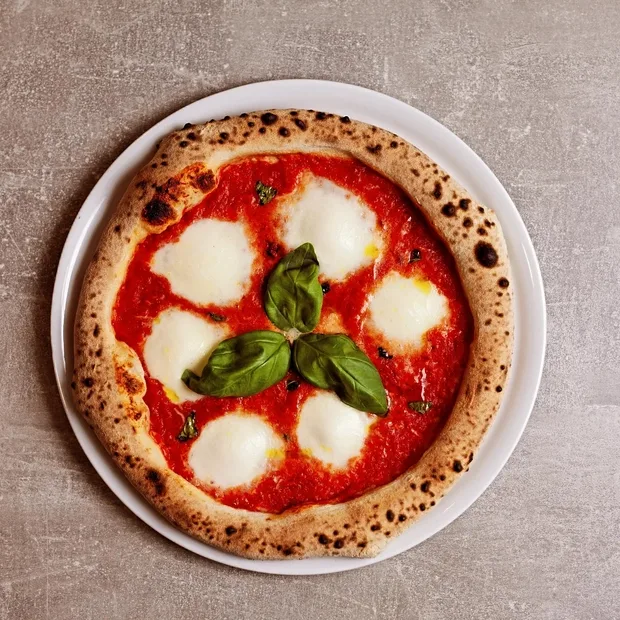
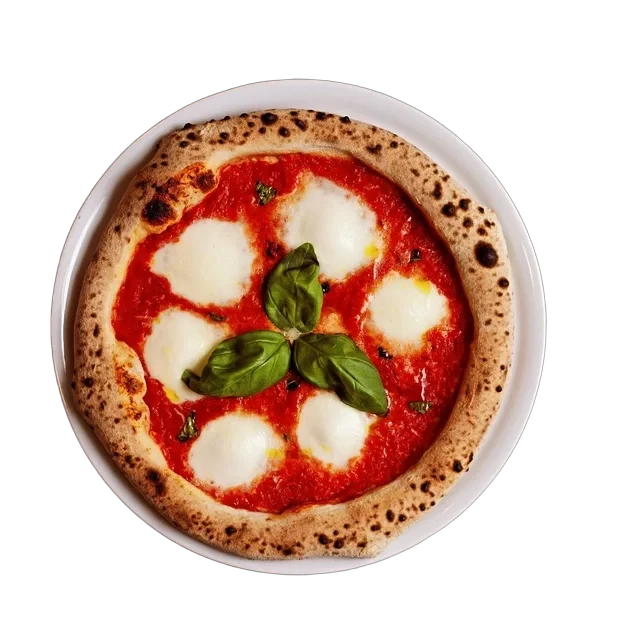
Add outline Objednat buttons and cutout menu food photos
Order buttons start as green outline and fill after click.
Menu item images use transparent backgrounds with object-contain.

diff --git a/src/app/menu/page.tsx b/src/app/menu/page.tsx
@@ -4,6 +4,7 @@ import { getContent } from "@/lib/content";
 import { SiteHeader } from "@/components/site-header";
 import { SiteFooter } from "@/components/site-footer";
 import { Button } from "@/components/ui/button";
+import { OrderButton } from "@/components/order-button";
 import { PageJsonLd } from "@/components/json-ld";
 import { Reveal } from "@/components/reveal";
 import { getPageSchema } from "@/lib/schema";
@@ -58,12 +59,12 @@ export default async function MenuPage() {
                       className="menu-row grid gap-4 py-8 sm:grid-cols-[auto_1fr_auto] sm:items-center"
                     >
                       {item.image ? (
-                        <div className="img-zoom relative h-20 w-20 overflow-hidden rounded-[6.4px] sm:h-24 sm:w-24">
+                        <div className="relative h-20 w-20 sm:h-24 sm:w-24">
                           <Image
                             src={item.image}
                             alt={item.name}
                             fill
-                            className="img-zoom-media object-cover"
+                            className="object-contain"
                             sizes="96px"
                           />
                         </div>
@@ -82,15 +83,7 @@ export default async function MenuPage() {
                         <p className="text-3xl font-black leading-none text-[var(--brand-red)] md:text-4xl">
                           {item.price}
                         </p>
-                        <Button asChild className="btn-green">
-                          <a
-                            href={site.orderUrl}
-                            target="_blank"
-                            rel="noreferrer"
-                          >
-                            Objednat
-                          </a>
-                        </Button>
+                        <OrderButton href={site.orderUrl} />
                       </div>
                     </li>
                   ))}

diff --git a/src/app/globals.css b/src/app/globals.css
@@ -383,6 +383,7 @@
   .img-zoom .img-zoom-media,
   .btn-brand,
   .btn-green,
+  .btn-order,
   .btn-outline-light,
   .feature-chip,
   .band-link,
@@ -576,6 +577,41 @@
 .btn-green:hover {
   background: #007a3a;
   color: #fff;
+}
+
+.btn-order {
+  display: inline-flex !important;
+  align-items: center !important;
+  justify-content: center !important;
+  box-sizing: border-box !important;
+  min-height: 3.9rem !important;
+  min-width: 12.5rem !important;
+  padding: 1.5rem 2.2rem !important;
+  font-family: var(--font-display) !important;
+  font-size: 1.3rem !important;
+  font-weight: 800 !important;
+  line-height: 1.2 !important;
+  letter-spacing: 0 !important;
+  text-transform: uppercase !important;
+  border-radius: var(--button-radius) !important;
+  white-space: nowrap !important;
+  border: 2px solid var(--brand-green) !important;
+  background: transparent !important;
+  color: var(--brand-green) !important;
+  transition:
+    background-color 0.25s ease,
+    color 0.25s ease,
+    transform 0.25s ease !important;
+}
+
+.btn-order:hover {
+  transform: translateY(-2px);
+}
+
+.btn-order.is-ordered {
+  background: var(--brand-green) !important;
+  color: #fff !important;
+  border-color: var(--brand-green) !important;
 }
 
 .btn-outline-light {

diff --git a/src/app/denni-nabidka/page.tsx b/src/app/denni-nabidka/page.tsx
@@ -4,6 +4,7 @@ import { getContent } from "@/lib/content";
 import { SiteHeader } from "@/components/site-header";
 import { SiteFooter } from "@/components/site-footer";
 import { Button } from "@/components/ui/button";
+import { OrderButton } from "@/components/order-button";
 import { PageJsonLd } from "@/components/json-ld";
 import { Reveal } from "@/components/reveal";
 import { getPageSchema } from "@/lib/schema";
@@ -60,11 +61,7 @@ export default async function DailyMenuPage() {
                     <p className="text-3xl font-black leading-none text-[var(--brand-red)] md:text-4xl">
                       {item.price}
                     </p>
-                    <Button asChild className="btn-green">
-                      <a href={site.orderUrl} target="_blank" rel="noreferrer">
-                        Objednat
-                      </a>
-                    </Button>
+                    <OrderButton href={site.orderUrl} />
                   </div>
                 </li>
               </Reveal>

diff --git a/src/components/order-button.tsx b/src/components/order-button.tsx
@@ -1,0 +1,29 @@
+"use client";
+
+import { useState } from "react";
+
+type Props = {
+  href: string;
+  label?: string;
+  className?: string;
+};
+
+export function OrderButton({
+  href,
+  label = "Objednat",
+  className = "",
+}: Props) {
+  const [ordered, setOrdered] = useState(false);
+
+  return (
+    <a
+      href={href}
+      target="_blank"
+      rel="noreferrer"
+      onClick={() => setOrdered(true)}
+      className={`btn-order ${ordered ? "is-ordered" : ""} ${className}`}
+    >
+      {label}
+    </a>
+  );
+}
